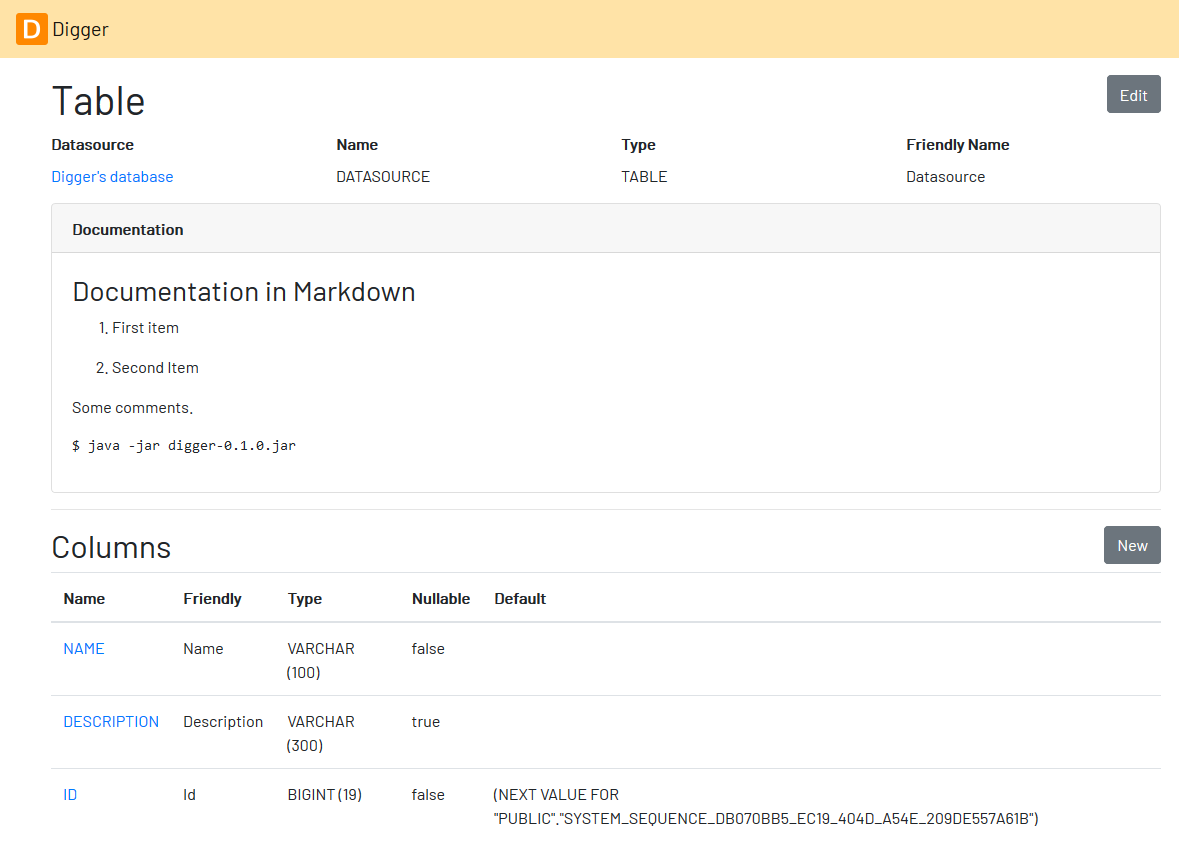
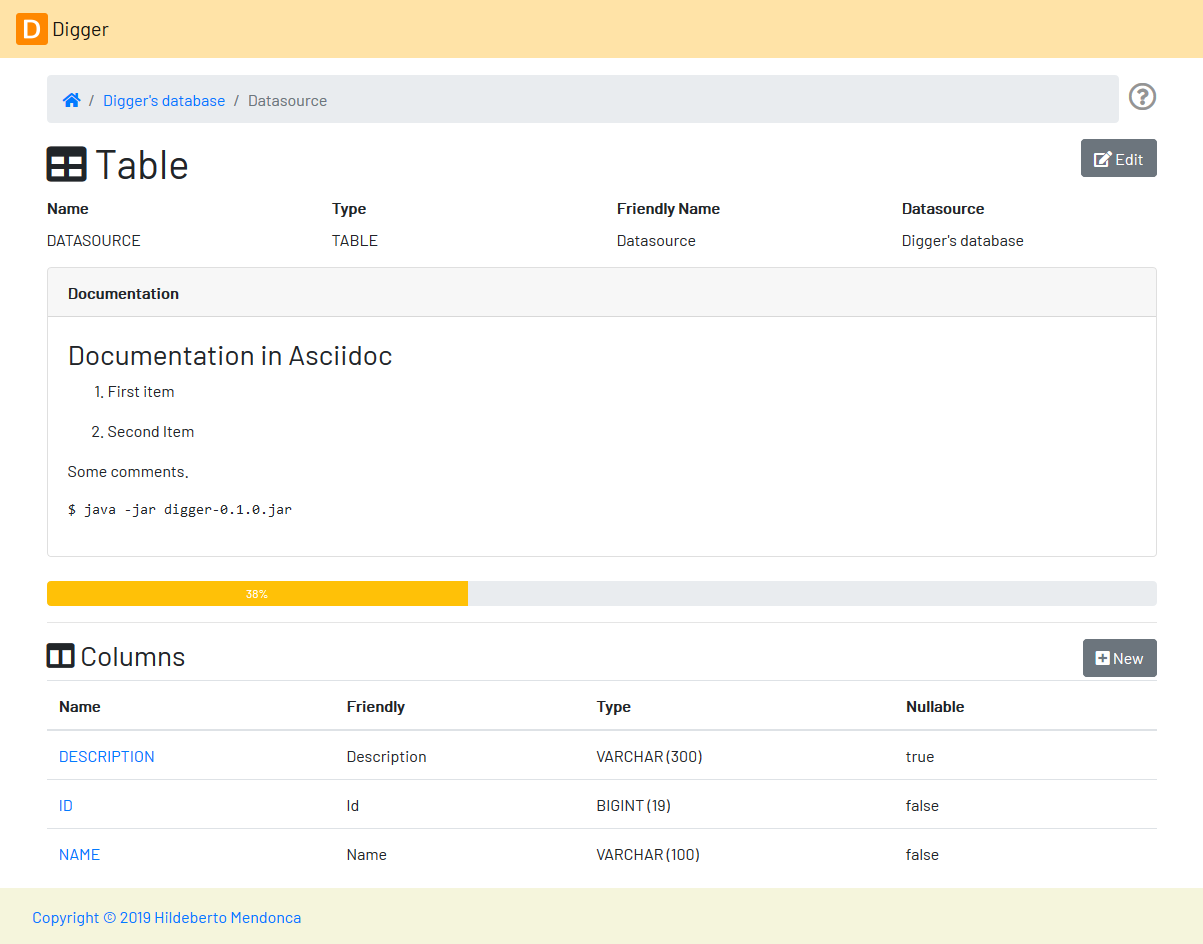
Release 0.5.0

diff --git a/src/main/resources/static/css/custom.css b/src/main/resources/static/css/custom.css
@@ -10,5 +10,5 @@ label {
 .help {
     font-size: 28px;
     margin-left: 10px;
-    color: rgb(226, 175, 36);
+    color: rgb(148, 148, 148);
 }
